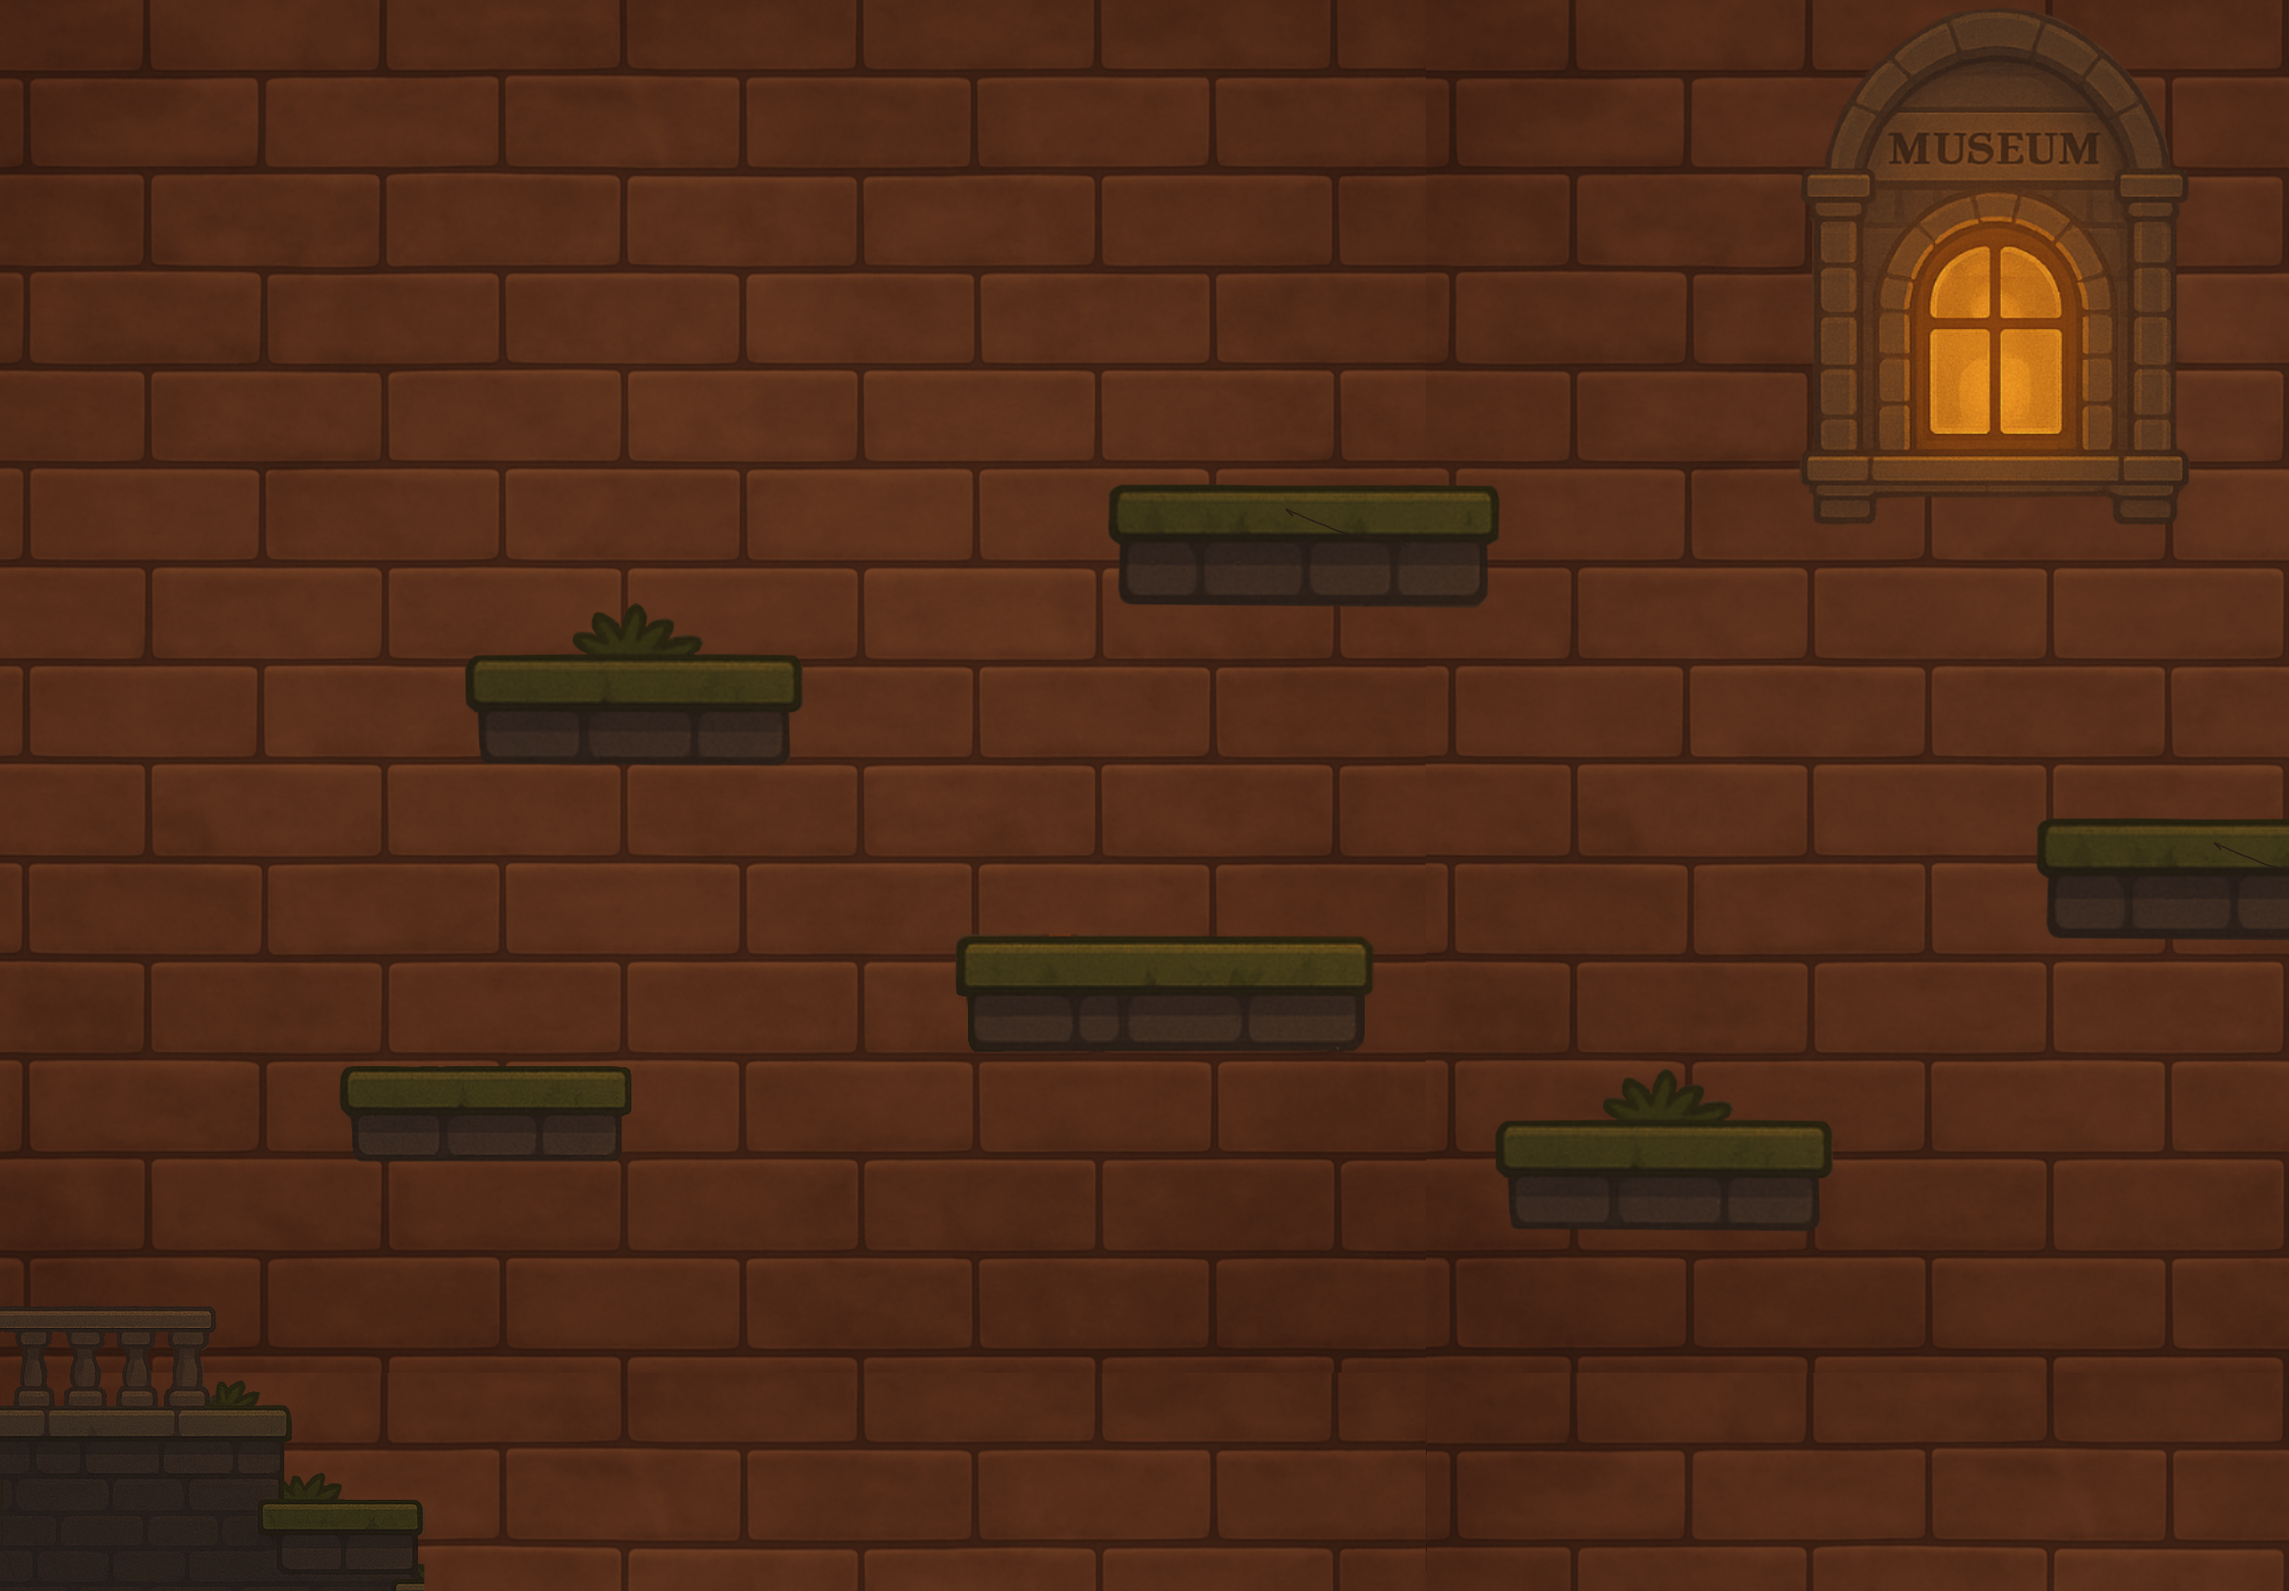
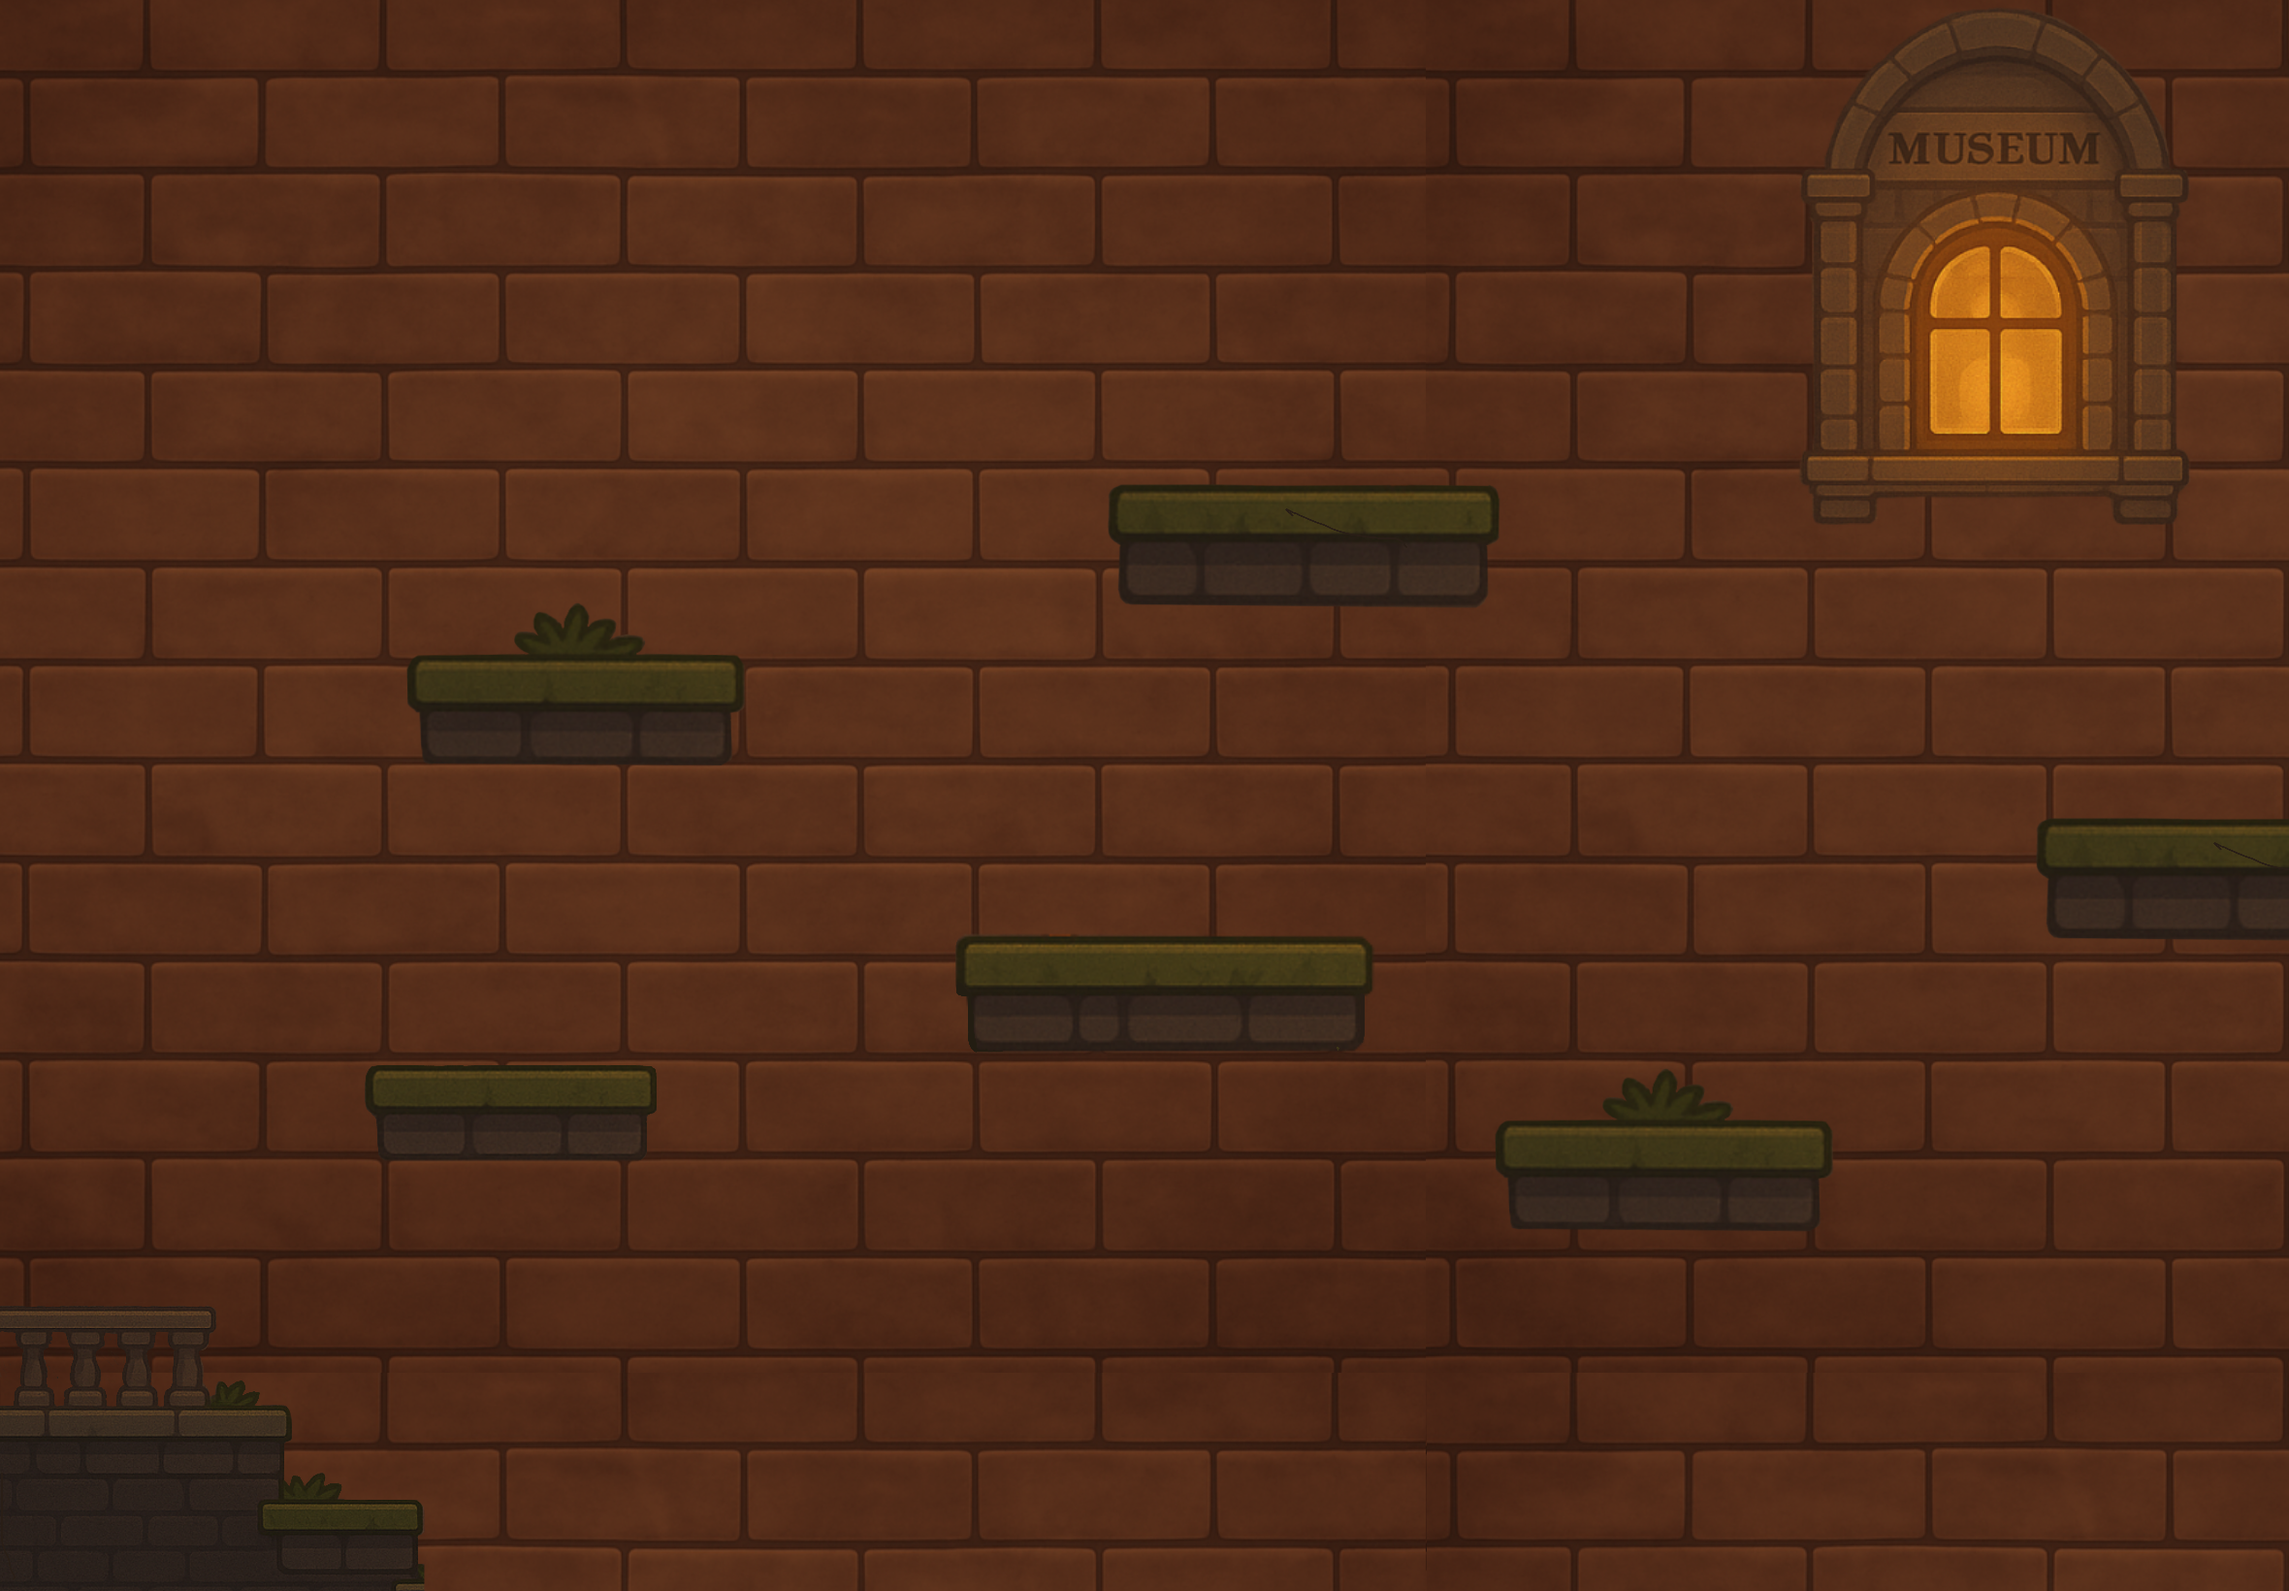
update the platforms' new position and collision

Changed region(s): [[0.1547, 0.3732, 0.3712, 0.4976], [0.2475, 0.6841, 0.3093, 0.7152], [0.1237, 0.6841, 0.1856, 0.7152]]

diff --git a/minigame/minigame.cpp b/minigame/minigame.cpp
@@ -50,16 +50,16 @@ void MiniGame::init(GLFWwindow* window) {
         "minigame/assets/thief1_left.png");
 
     // Add platforms (same as your original main)
-    platforms.emplace_back(270, 1552, 170, 27, 0);
-    platforms.emplace_back(0, 1350, 220, 27, 0);
-    platforms.emplace_back(0, 1452, 300, 27, 0);
-    platforms.emplace_back(360, 1102, 285, 40, 0);
-    platforms.emplace_back(990, 970, 428, 44, 0);
-    platforms.emplace_back(1550, 1165, 330, 45, 0);
-    platforms.emplace_back(2100, 850, 260, 45, 0);
-    platforms.emplace_back(488, 685, 330, 40, 0);
-    platforms.emplace_back(1148, 505, 400, 43, 0);
-    platforms.emplace_back(1850, 470, 400, 30, 0);
+    platforms.emplace_back(270, 1552, 170, 27, 0);//1
+    platforms.emplace_back(0, 1350, 220, 27, 0);//2
+    platforms.emplace_back(0, 1452, 300, 27, 0);//3
+    platforms.emplace_back(380, 1102, 285, 40, 0);//4
+    platforms.emplace_back(990, 970, 428, 44, 0);//5
+    platforms.emplace_back(1550, 1165, 330, 45, 0);//6
+    platforms.emplace_back(2100, 850, 260, 45, 0);//7
+    platforms.emplace_back(420, 680, 330, 40, 0);//8
+    platforms.emplace_back(1148, 505, 400, 43, 0);//9
+    platforms.emplace_back(1850, 470, 400, 30, 0);//10
 }
 
 void MiniGame::update(GLFWwindow* window) {

diff --git a/minigame/src/character.cpp b/minigame/src/character.cpp
@@ -98,11 +98,11 @@ void Character::update(float dt, int windowHeight, int windowWidth, const std::v
             vx = 0.f;
         }
 
-        // bool bottomContact = (y >= p.y + p.height) && (nextY < p.y + p.height);
-        // if (isJumping && horizontalOverlap && bottomContact) {
-        //     nextY = p.y + p.height;
-        //     vy = 0.f;
-        // }
+        bool bottomContact = (y >= p.y + p.height) && (nextY < p.y + p.height);
+        if (isJumping && horizontalOverlap && bottomContact) {
+            nextY = p.y + p.height;
+            vy = 0.f;
+        }
     }
     x = nextX;
     y = nextY;
